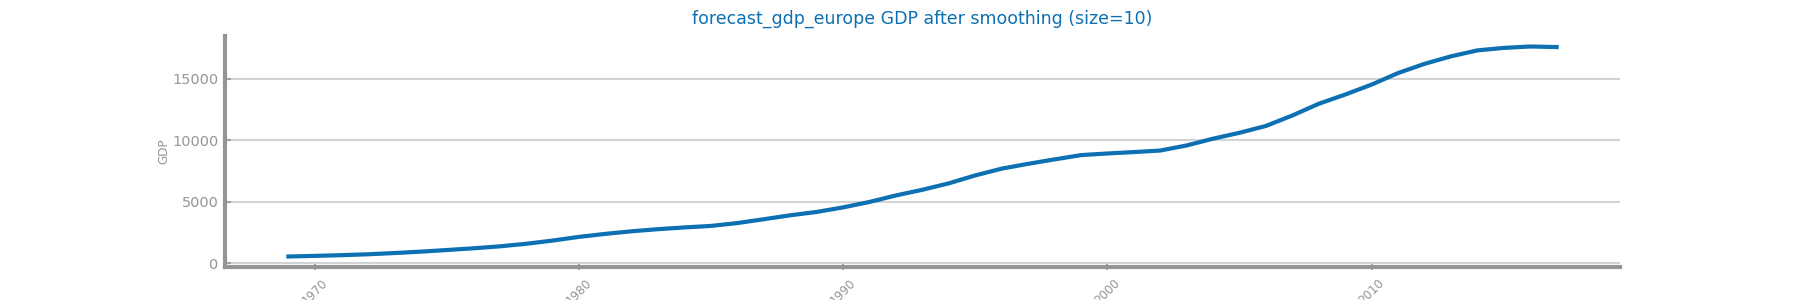
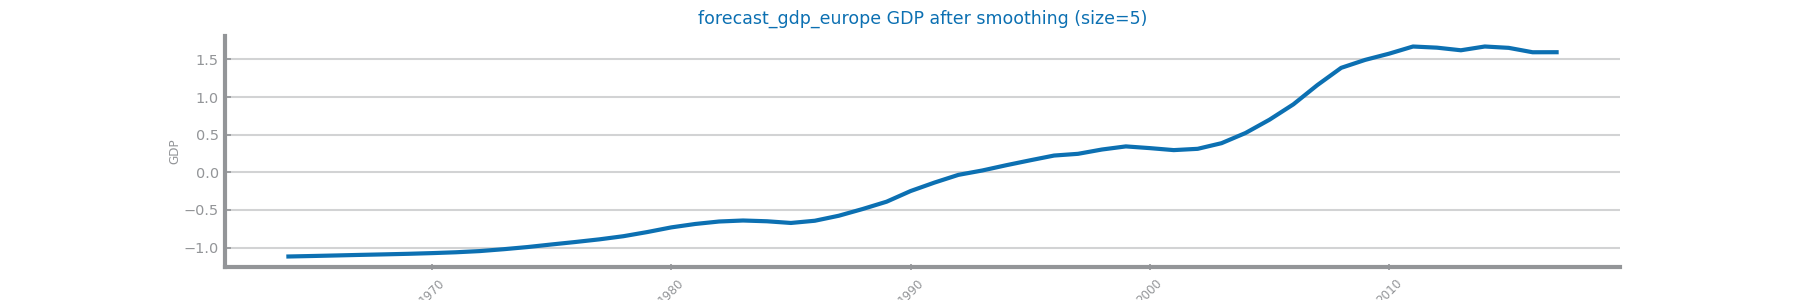
Fixed

diff --git a/Forecasting/Analysis/Europe/distribution_economical.py b/Forecasting/Analysis/Europe/distribution_economical.py
@@ -24,15 +24,15 @@ data: DataFrame = read_csv(
     infer_datetime_format=True,
 )
 series: Series = data[target]
-ss_weeks: Series = ts_aggregation_by(series, gran_level="W", agg_func=sum)
+ss_annual: Series = ts_aggregation_by(series, gran_level="Y", agg_func=sum)
 
 figure(figsize=(3 * HEIGHT, HEIGHT))
 plot_line_chart(
-    ss_weeks.index.to_list(),
-    ss_weeks.to_list(),
-    xlabel="weeks",
+    ss_annual.index.to_list(),
+    ss_annual.to_list(),
+    xlabel="Year",
     ylabel=target,
-    title=f"{file_tag} weekly {target}",
+    title=f"{file_tag} Annual {target}",
 )
 #show()
 study_tag = "time_series_aggregation_by"
@@ -40,33 +40,34 @@ savefig(f"Forecasting/Images/{file_tag}_{study_tag}_study.png")
 
 fig: Figure
 axs: array
-fig, axs = subplots(2, 2, figsize=(2 * HEIGHT, HEIGHT))
-set_chart_labels(axs[0, 0], title="HOURLY")
-axs[0, 0].boxplot(series)
-set_chart_labels(axs[0, 1], title="WEEKLY")
-axs[0, 1].boxplot(ss_weeks)
+fig, axs = subplots(2, 1, figsize=(HEIGHT, 2 * HEIGHT))
 
-axs[1, 0].grid(False)
-axs[1, 0].set_axis_off()
-axs[1, 0].text(0.2, 0, str(series.describe()), fontsize="small")
+# Boxplot on top
+set_chart_labels(axs[0], title="ANNUAL")
+axs[0].boxplot(ss_annual)
 
-axs[1, 1].grid(False)
-axs[1, 1].set_axis_off()
-axs[1, 1].text(0.2, 0, str(ss_weeks.describe()), fontsize="small")
-#show()
+# 5-Number Summary below
+axs[1].grid(False)
+axs[1].set_axis_off()
+
+# Add descriptive statistics as text
+summary_stats = str(ss_annual.describe())
+axs[1].text(0.5, 0.5, summary_stats, fontsize="small", ha="center", va="center", wrap=True)
+
+# Save the combined figure
 study_tag = "5-Number_Summary"
 savefig(f"Forecasting/Images/{file_tag}_{study_tag}_study.png")
 
-ss_days: Series = ts_aggregation_by(series, gran_level="D", agg_func=sum)
-ss_months: Series = ts_aggregation_by(series, gran_level="M", agg_func=sum)
-ss_quarters: Series = ts_aggregation_by(series, gran_level="Q", agg_func=sum)
 
-grans: list[Series] = [series, ss_days, ss_weeks, ss_months, ss_quarters]
-gran_names: list[str] = ["Horuly", "Daily", "Weekly", "Monthly", "Quarterly"]
+grans: list[Series] = [ss_annual]
+gran_names: list[str] = ["Annualy"]
 fig: Figure
 axs: array
 fig, axs = subplots(1, len(grans), figsize=(len(grans) * HEIGHT, HEIGHT))
 fig.suptitle(f"{file_tag} {target}")
+if len(grans) == 1:
+    axs = [axs]
+
 for i in range(len(grans)):
     set_chart_labels(axs[i], title=f"{gran_names[i]}", xlabel=target, ylabel="Nr records")
     axs[i].hist(grans[i].values)

diff --git a/Forecasting/Transformation/Europe/smoothing_economical.py b/Forecasting/Transformation/Europe/smoothing_economical.py
@@ -6,7 +6,7 @@ from matplotlib.axes import Axes
 from matplotlib.figure import Figure
 
 file_tag = "forecast_gdp_europe"
-filename = "Data/Time_Series/forecast_gdp_europe.csv"
+filename = "Data/Time_Series/forecast_gdp_europe_scalling.csv"
 index = "Year"
 target = "GDP"
 data: DataFrame = read_csv(
@@ -29,7 +29,7 @@ plot_line_chart(
 )
 #show()
 
-WIN_SIZE = 10
+WIN_SIZE = 5
 ss_smooth: Series = series.rolling(window=WIN_SIZE).mean()
 
 figure(figsize=(3 * HEIGHT, HEIGHT / 2))
@@ -42,9 +42,9 @@ plot_line_chart(
 )
 #show()
 study_tag = "smoothing1"
-savefig(f"Forecasting/Images/{file_tag}_{study_tag}_study.png")
+savefig(f"Forecasting/Images/Smoothing/{file_tag}_{study_tag}_study.png")
 
-sizes: list[int] = [25, 50, 75, 100]
+sizes: list[int] = [5, 10]
 fig: Figure
 axs: list[Axes]
 fig, axs = subplots(len(sizes), 1, figsize=(3 * HEIGHT, HEIGHT / 2 * len(sizes)))
@@ -62,4 +62,7 @@ for i in range(len(sizes)):
     )
 #show()
 study_tag = "smoothing2"
-savefig(f"Forecasting/Images/{file_tag}_{study_tag}_study.png")
+savefig(f"Forecasting/Images/Smoothing/{file_tag}_{study_tag}_study.png")
+
+ss_smooth: DataFrame = data.rolling(5).mean()
+ss_smooth.to_csv("Data/Time_Series/forecast_gdp_europe_smoothing.csv")

diff --git a/Forecasting/Transformation/Europe/differentiation_economical.py b/Forecasting/Transformation/Europe/differentiation_economical.py
@@ -6,7 +6,7 @@ from dslabs_functions import plot_ts_multivariate_chart
 
 
 file_tag = "forecast_gdp_europe"
-filename = "Data/Time_Series/forecast_gdp_europe.csv"
+filename = "Data/Time_Series/forecast_gdp_europe_aggregated.csv"
 index = "Year"
 target = "GDP"
 data: DataFrame = read_csv(
@@ -46,12 +46,20 @@ savefig(f"Forecasting/Images/Differentiation/{file_tag}_{study_tag}_study.png")
 
 plot_ts_multivariate_chart(data, title=f"{file_tag} {target}")
 #show()
-study_tag = "Multivariate_Time_Series1"
+study_tag = "Multivariate_Time_Series"
 savefig(f"Forecasting/Images/Differentiation/{file_tag}_{study_tag}_study.png")
 
 diff_df: DataFrame = data.diff()
 
 plot_ts_multivariate_chart(diff_df, title=f"{file_tag} {target} - after first differentiation")
 #show()
-study_tag = "Multivariate_Time_Series2"
+study_tag = "first_differentiation"
+savefig(f"Forecasting/Images/Differentiation/{file_tag}_{study_tag}_study.png")
+
+
+diff_df: DataFrame = diff_df.diff()
+
+plot_ts_multivariate_chart(diff_df, title=f"{file_tag} {target} - after second differentiation")
+#show()
+study_tag = "second_differentiation"
 savefig(f"Forecasting/Images/Differentiation/{file_tag}_{study_tag}_study.png")

diff --git a/Forecasting/Transformation/Europe/aggregation_economical.py b/Forecasting/Transformation/Europe/aggregation_economical.py
@@ -7,7 +7,7 @@ from dslabs_functions import plot_ts_multivariate_chart
 file_tag = "forecast_gdp_europe"
 target = "GDP"
 data: DataFrame = read_csv(
-    "Data/Time_Series/forecast_gdp_europe.csv",
+    "Data/Time_Series/forecast_gdp_europe_smoothing.csv",
     index_col="Year",
     sep=",",
     decimal=".",
@@ -34,7 +34,7 @@ plot_line_chart(
     title=f"{file_tag} daily {target}",
 )
 #show()
-study_tag = "ts_aggregation_by"
+study_tag = "before"
 savefig(f"Forecasting/Images/Aggregation/{file_tag}_{study_tag}_study.png")
 
 
@@ -44,5 +44,8 @@ agg_df: DataFrame = ts_aggregation_by(data, gran_level="W", agg_func="mean")
 
 plot_ts_multivariate_chart(agg_df, title=f"{file_tag} after hourly aggregation {target}")
 #show()
-study_tag = "Multivariate_Time_Series"
+study_tag = "after"
 savefig(f"Forecasting/Images/Aggregation/{file_tag}_{study_tag}_study.png")
+
+output_file = "Data/Time_Series/forecast_gdp_europe_aggregated.csv"
+agg_df.to_csv(output_file, sep=",", decimal=".", index=True)

diff --git a/Forecasting/Analysis/Europe/stationarity_economical.py b/Forecasting/Analysis/Europe/stationarity_economical.py
@@ -57,7 +57,7 @@ plot_components(
 )
 #show()
 study_tag = "Seasonality"
-savefig(f"Forecasting/Images/Stationary/{file_tag}_{study_tag}_study.png")
+savefig(f"Forecasting/Images/Stationarity/{file_tag}_{study_tag}_study.png")
 
 figure(figsize=(3 * HEIGHT, HEIGHT))
 plot_line_chart(
@@ -73,7 +73,7 @@ plot(series.index, [series.mean()] * n, "r-", label="mean")
 legend()
 #show()
 study_tag = "stationary1"
-savefig(f"Forecasting/Images/Stationary/{file_tag}_{study_tag}_study.png")
+savefig(f"Forecasting/Images/Stationarity/{file_tag}_{study_tag}_study.png")
 
 BINS = 10
 mean_line: list[float] = []
@@ -99,7 +99,7 @@ plot(series.index, mean_line, "r-", label="mean")
 legend()
 #show()
 study_tag = "stationary2"
-savefig(f"Forecasting/Images/{file_tag}_{study_tag}_study.png")
+savefig(f"Forecasting/Images/Stationarity/{file_tag}_{study_tag}_study.png")
 
 def eval_stationarity(series: Series) -> bool:
     result = adfuller(series)

diff --git a/Forecasting/Transformation/Europe/scaling_economical.py b/Forecasting/Transformation/Europe/scaling_economical.py
@@ -8,7 +8,10 @@ def scale_all_dataframe(data: DataFrame) -> DataFrame:
     transf: StandardScaler = StandardScaler().fit(data)
     df = DataFrame(transf.transform(data), index=data.index)
     df.columns = vars
+    file_name = "forecast_gdp_europe_scalling.csv"
+    df.to_csv(file_name, index=True)
     return df
+
 
 file_tag = "forecast_gdp_europe"
 filename = "Data/Time_Series/forecast_gdp_europe.csv"
